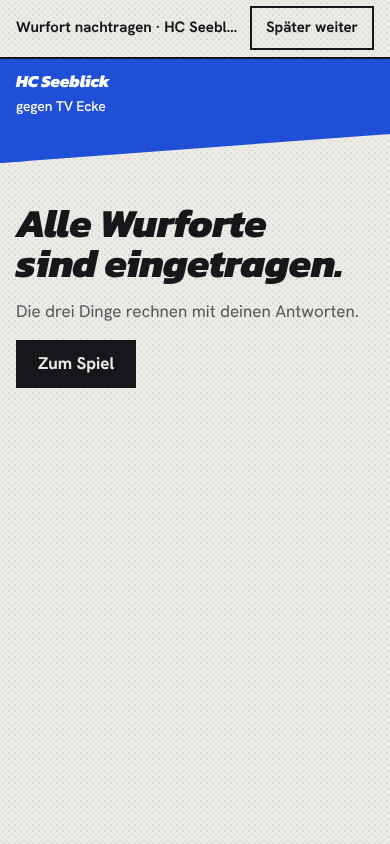
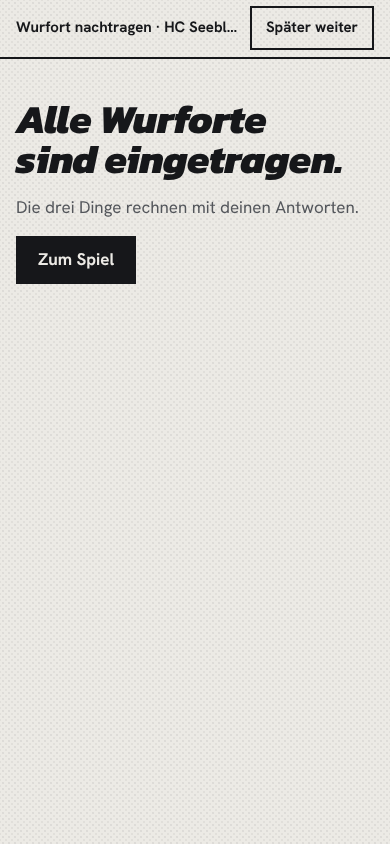
«Von wo?» on one phone screen, shorter text, goals on one point set apart, «Aussen links» everywhere
On a phone the step hides the strip, the question count and the player's bar, the replay key
sits beside «Von wo?», the two kinds and «Weiss nicht» share a row: video and court fit 390 x 844
and 360 x 740 without scrolling (Playwright measures it). One line of text, «Gelb ist unser
Vorschlag» only with a suggestion, the side note small under the court; the same when filling
in. Goals sharing one point (a zone without a tapped point) are set apart in a fixed ring, so
the bundle shows as many dots as the numeral says. «Links aussen» becomes «Aussen links» in
all texts (fr «Aile gauche»); the player box gets a role for its label.

Claude-Session: https://claude.ai/code/session_01H3gogAAXLogd3cuATJwVN8

diff --git a/apps/web/src/app/app/[orgId]/matches/[matchId]/check/check-view.tsx b/apps/web/src/app/app/[orgId]/matches/[matchId]/check/check-view.tsx
@@ -369,7 +369,10 @@ export function CheckView({ orgId, match }: { orgId: string; match: Match }) {
   }
   // keyboard and screen reader: the question «Von wo?» takes the focus when it appears
   useEffect(() => {
-    if (spotStep) document.getElementById("spot-question")?.focus({ preventScroll: true });
+    if (!spotStep) return;
+    // video and court on one screen: from the top, wherever the answer key was
+    window.scrollTo({ top: 0 });
+    document.getElementById("spot-question")?.focus({ preventScroll: true });
   }, [spotStep]);
   const replay = () => {
     if (current?.kind !== "goal") return;
@@ -436,7 +439,8 @@ export function CheckView({ orgId, match }: { orgId: string; match: Match }) {
           {t("later")}
         </Link>
       </div>
-      <div className="bleed-x">
+      {/* «Von wo?» on a phone: video and court on one screen, the strip gives way */}
+      <div className={cn("bleed-x", spotStep && "max-md:hidden")}>
         <Strip
           name={own}
           sub={`${ta("vsShort")} ${oppName} · ${left > 0 ? t("openCount", { n: left, minutes: leftMinutes }) : t("count", { n: total > 0 || wantMore ? total : moreGoals })}`}
@@ -531,7 +535,7 @@ export function CheckView({ orgId, match }: { orgId: string; match: Match }) {
         </div>
       ) : (
         // the court gets the whole width: the hall image as large as possible (E04)
-        <div className={cn("grid gap-5 py-6 md:gap-14 md:py-10", current.kind === "field" ? "md:grid-cols-1 md:gap-6" : "md:grid-cols-[minmax(0,1fr)_420px]")}>
+        <div className={cn("grid gap-5 py-6 md:gap-14 md:py-10", spotStep && "max-md:gap-2 max-md:py-2", current.kind === "field" ? "md:grid-cols-1 md:gap-6" : "md:grid-cols-[minmax(0,1fr)_420px]")}>
           <figure className="relative m-0 self-start bg-[#1d2125]">
             {current.kind === "field" && main && panoSize && corners ? (
               <FieldCheck key={current.videoId} src={`/v1/orgs/${orgId}/videos/${current.videoId}/panorama`} alt={t("fieldAlt")} size={panoSize} corners={corners} onChange={setMoved} />
@@ -561,7 +565,7 @@ export function CheckView({ orgId, match }: { orgId: string; match: Match }) {
               // the second half's throw-off: the player starts where the second half's file starts
               <VideoPlayer ref={player} key={`kickoff-${current.period}`} src={`${media}/hls/master.m3u8`} window={kickoffFrom(current.period)} />
             ) : current.kind === "goal" && media ? (
-              <VideoPlayer ref={player} key={current.c.id} src={`${media}/hls/master.m3u8`} window={goalWindow(current.c)} autoPlay />
+              <VideoPlayer ref={player} key={current.c.id} src={`${media}/hls/master.m3u8`} window={goalWindow(current.c)} autoPlay bare={spotStep != null} />
             ) : null}
             {current.kind === "person" && (
               <figcaption className="bg-[rgb(10_13_17/0.9)] px-3 py-2 font-mono text-[13px] font-semibold text-[#eef2f5]">
@@ -577,7 +581,7 @@ export function CheckView({ orgId, match }: { orgId: string; match: Match }) {
               </figcaption>
             )}
             {current.kind === "goal" && (
-              <figcaption className="flex flex-wrap items-center justify-between gap-x-3 gap-y-1 bg-[rgb(10_13_17/0.9)] px-3 py-1.5 text-[#eef2f5]">
+              <figcaption className={cn("flex flex-wrap items-center justify-between gap-x-3 gap-y-1 bg-[rgb(10_13_17/0.9)] px-3 py-1.5 text-[#eef2f5]", spotStep && "max-md:hidden")}>
                 <span className="font-mono text-[13px] font-semibold">{current.c.clock_s != null ? t("goalCaption", { clock: clock(current.c.clock_s), video: clock(current.c.goal_ms / 1000) }) : t("videoAt", { video: clock(current.c.goal_ms / 1000) })}</span>
                 {/* the coach sees the throw again while answering «Von wo?» (H7) */}
                 <button type="button" onClick={replay} className="min-h-11 cursor-pointer border-[1.5px] border-[#8d97a1] bg-transparent px-3 text-[15px] font-bold text-white" data-testid="check-replay">
@@ -587,7 +591,7 @@ export function CheckView({ orgId, match }: { orgId: string; match: Match }) {
             )}
           </figure>
           <div>
-            <p className="m-0 flex flex-wrap items-center justify-between gap-3 text-[15px] font-semibold text-ink-2">
+            <p className={cn("m-0 flex flex-wrap items-center justify-between gap-3 text-[15px] font-semibold text-ink-2", spotStep && "max-md:hidden")}>
               <span>{spotStep?.fromList ? `${ts("change")} · ${spotStep.goal}` : revisit != null ? t("changing", { answer: answered[revisit]?.label ?? "" }) : t("questionOf", { n: total - open.length + 1, total })}</span>
               {/* «Zurück» only where there is a question before this one (fourth real-video test H10) */}
               {!spotStep && answered.length > 0 && (revisit != null ? revisit > 0 : total - open.length > 0) && (
@@ -599,16 +603,26 @@ export function CheckView({ orgId, match }: { orgId: string; match: Match }) {
             {spotStep ? (
               // «Von wo?»: the goal is saved; one tap on the court saves the place and goes on (H7)
               <section aria-labelledby="spot-question" data-testid="spot-step">
-                {!spotStep.fromList && (
-                <p role="status" className="m-0 mt-2 text-[17px] font-semibold">
-                  <Check aria-hidden className="mr-1.5 inline size-5 align-[-3px] text-win" strokeWidth={3} />
-                  {ts("saved", { goal: spotStep.goal })}
+                <p role="status" className="m-0 text-[15px] font-semibold md:mt-2 md:text-[17px]">
+                  {spotStep.fromList ? (
+                    `${ts("change")} · ${spotStep.goal}`
+                  ) : (
+                    <>
+                      <Check aria-hidden className="mr-1.5 inline size-5 align-[-3px] text-win" strokeWidth={3} />
+                      {ts("saved", { goal: spotStep.goal })}
+                    </>
+                  )}
                 </p>
-                )}
-                <h1 id="spot-question" tabIndex={-1} className="mt-2 mb-2 text-[40px] leading-[.95] outline-none md:text-[58px]">
-                  {ts("question")}
-                </h1>
-                <p className="mt-3 max-w-[54ch] text-[17px] text-ink-2">
+                <div className="flex items-end justify-between gap-3">
+                  <h1 id="spot-question" tabIndex={-1} className="mt-1 mb-0 text-[32px] leading-[.95] outline-none md:mt-2 md:text-[58px]">
+                    {ts("question")}
+                  </h1>
+                  {/* on a phone the caption under the video gives way: the replay sits here */}
+                  <button type="button" onClick={replay} className="min-h-11 shrink-0 cursor-pointer border-2 border-ink bg-transparent px-3 text-[15px] font-bold text-ink md:hidden" data-testid="spot-replay">
+                    {ts("replay")}
+                  </button>
+                </div>
+                <p className="mt-1 mb-0 max-w-[54ch] text-[15px] text-ink-2 md:mt-3 md:text-[17px]">
                   {ts("why")} {spotStep.suggestion?.kind === "estimated" ? ts("suggestedWhy") : ""}
                 </p>
                 {failed && (
@@ -616,7 +630,7 @@ export function CheckView({ orgId, match }: { orgId: string; match: Match }) {
                     {t("saveFailed")} <span className="block text-[15px] font-normal text-ink-2">{failed}</span>
                   </p>
                 )}
-                <div className="mt-4">
+                <div className="mt-2 md:mt-4">
                   <ShotSpotPicker key={`${spotStep.eventId}-${spotStep.index}`} suggestion={spotStep.suggestion} onPick={(spot, point) => void pickSpot(spotStep, spot, point)} />
                 </div>
               </section>

diff --git a/apps/web/src/app/app/[orgId]/matches/[matchId]/check/spot-fill.tsx b/apps/web/src/app/app/[orgId]/matches/[matchId]/check/spot-fill.tsx
@@ -59,7 +59,9 @@ export function SpotFill({ orgId, match, goalId }: { orgId: string; match: Match
   const when = (g: Goal) => (g.minute != null ? `${clockOf(g.minute)} · ${tc("videoAt", { video: formatClock(g.t_ms ?? 0) })}` : tc("videoAt", { video: formatClock(g.t_ms ?? 0) }));
   // keyboard and screen reader: each goal's question takes the focus
   useEffect(() => {
-    if (at > 0) document.getElementById("spot-fill-question")?.focus({ preventScroll: true });
+    if (at === 0) return;
+    window.scrollTo({ top: 0 });
+    document.getElementById("spot-fill-question")?.focus({ preventScroll: true });
   }, [at]);
   const media = main ? `/v1/orgs/${orgId}/videos/${main.id}/media/hls/master.m3u8` : null;
 
@@ -71,7 +73,8 @@ export function SpotFill({ orgId, match, goalId }: { orgId: string; match: Match
           {tc("later")}
         </Link>
       </div>
-      <div className="bleed-x">
+      {/* on a phone video and court share one screen: the strip gives way */}
+      <div className="bleed-x max-md:hidden">
         <Strip name={own} sub={`${ta("vsShort")} ${oppName}${goal ? ` · ${t("fillCount", { n: at + 1, total })}` : ""}`} own={match.score_own} opp={match.score_opponent} />
       </div>
       {!list ? (
@@ -85,10 +88,10 @@ export function SpotFill({ orgId, match, goalId }: { orgId: string; match: Match
           </Link>
         </div>
       ) : (
-        <div className="grid gap-5 py-6 md:grid-cols-[minmax(0,1fr)_420px] md:gap-14 md:py-10">
+        <div className="grid gap-2 py-2 md:grid-cols-[minmax(0,1fr)_420px] md:gap-14 md:py-10">
           <figure className="relative m-0 self-start bg-court-bar">
-            {media && goal.t_ms != null && <VideoPlayer ref={player} key={goal.event_id} src={media} window={goalWindow({ t_ms: goal.t_ms })} autoPlay />}
-            <figcaption className="flex flex-wrap items-center justify-between gap-x-3 gap-y-1 bg-court-bar px-3 py-1.5 text-court-text">
+            {media && goal.t_ms != null && <VideoPlayer ref={player} key={goal.event_id} src={media} window={goalWindow({ t_ms: goal.t_ms })} autoPlay bare />}
+            <figcaption className="flex flex-wrap max-md:hidden items-center justify-between gap-x-3 gap-y-1 bg-court-bar px-3 py-1.5 text-court-text">
               <span className="font-mono text-[13px] font-semibold">{when(goal)}</span>
               <button
                 type="button"
@@ -104,18 +107,34 @@ export function SpotFill({ orgId, match, goalId }: { orgId: string; match: Match
             </figcaption>
           </figure>
           <section aria-labelledby="spot-fill-question" data-testid="spot-step">
-            <p className="m-0 text-[15px] font-semibold text-ink-2">{t("fillCount", { n: at + 1, total })}</p>
-            <p className="m-0 mt-2 text-[17px] font-semibold">{who(goal)}</p>
-            <h1 id="spot-fill-question" tabIndex={-1} className="mt-1 mb-2 text-[40px] leading-[.95] outline-none md:text-[58px]">
-              {t("question")}
-            </h1>
-            <p className="mt-3 max-w-[54ch] text-[17px] text-ink-2">{t("why")}</p>
+            <p className="m-0 text-[15px] font-semibold md:text-[17px]">
+              <span className="text-ink-2">{t("fillCount", { n: at + 1, total })}</span> · {who(goal)} <span className="font-mono text-[13px] text-ink-2 md:hidden">{when(goal)}</span>
+            </p>
+            <div className="flex items-end justify-between gap-3">
+              <h1 id="spot-fill-question" tabIndex={-1} className="mt-1 mb-0 text-[32px] leading-[.95] outline-none md:mt-2 md:text-[58px]">
+                {t("question")}
+              </h1>
+              <button
+                type="button"
+                onClick={() => {
+                  player.current?.seek(goalWindow({ t_ms: goal.t_ms ?? 0 }).start_ms);
+                  player.current?.play();
+                }}
+                className="min-h-11 shrink-0 cursor-pointer border-2 border-ink bg-transparent px-3 text-[15px] font-bold text-ink md:hidden"
+                data-testid="spot-replay"
+              >
+                {t("replay")}
+              </button>
+            </div>
+            <p className="mt-1 mb-0 max-w-[54ch] text-[15px] text-ink-2 md:mt-3 md:text-[17px]">
+              {t("why")} {goal.zone_source === "estimated" ? t("suggestedWhy") : ""}
+            </p>
             {failed && (
               <p role="alert" className="mt-4 max-w-[54ch] border-l-4 border-loss pl-3 text-[17px] font-semibold" data-testid="check-failed">
                 {tc("saveFailed")} <span className="block text-[15px] font-normal text-ink-2">{failed}</span>
               </p>
             )}
-            <div className="mt-4">
+            <div className="mt-2 md:mt-4">
               <ShotSpotPicker
                 key={goal.event_id}
                 disabled={busy}

diff --git a/apps/web/src/components/anlauf/shot-spot-picker.tsx b/apps/web/src/components/anlauf/shot-spot-picker.tsx
@@ -107,7 +107,10 @@ export function ShotSpotPicker({
           );
         })}
       </svg>
-      <div className="mt-2.5 grid grid-cols-2 gap-2.5">
+      {/* which way round, small under the court: read once, not before every tap */}
+      <p className="m-0 mt-1 text-[14px] leading-snug text-ink-2">{t("sideNote")}</p>
+      {/* the two kinds and «Weiss nicht» in one row: the whole step fits one phone screen */}
+      <div className="mt-2 grid grid-cols-[minmax(0,1fr)_minmax(0,1fr)_auto] items-stretch gap-2">
         {(["m7", "gs"] as const).map((z) => {
           const word = mark(z);
           return (
@@ -117,17 +120,17 @@ export function ShotSpotPicker({
               disabled={disabled}
               onClick={() => onPick(z)}
               data-testid={`spot-${z}`}
-              className={cn("flex min-h-14 cursor-pointer flex-col items-start justify-center border-2 border-ink px-4 text-left text-[17px] font-semibold text-ink md:min-h-16", word ? "bg-attn" : "bg-transparent")}
+              className={cn("flex min-h-12 cursor-pointer flex-col items-start justify-center border-2 border-ink px-2.5 text-left text-[15px] font-semibold text-ink sm:px-4 sm:text-[17px] md:min-h-14", word ? "bg-attn" : "bg-transparent")}
             >
               {t(`zone.${z}` as "zone.m7")}
-              {word && <span className="text-[15px] font-semibold italic">{word}</span>}
+              {word && <span className="text-[14px] font-semibold italic">{word}</span>}
             </button>
           );
         })}
+        <button type="button" disabled={disabled} onClick={() => onPick("unknown")} className="min-h-12 cursor-pointer border-0 bg-transparent px-1 text-[15px] font-bold whitespace-nowrap text-ink underline underline-offset-4 sm:text-[17px]" data-testid="spot-unknown">
+          {t("unknown")}
+        </button>
       </div>
-      <button type="button" disabled={disabled} onClick={() => onPick("unknown")} className="mt-1 min-h-12 cursor-pointer border-0 bg-transparent p-0 text-[17px] font-bold text-ink underline underline-offset-4" data-testid="spot-unknown">
-        {t("unknown")}
-      </button>
     </div>
   );
 }

diff --git a/apps/web/src/lib/graphics.ts b/apps/web/src/lib/graphics.ts
@@ -21,6 +21,38 @@ export type SceneCamera = Schemas["SceneCameraOut"];
  * the goal list (`spotless`), not in bundles and Minifelder (real-video test E01).
  */
 export function goalRuns(g: MatchGraphics, team?: "own" | "opp"): (GoalRun & { eventId: string })[] {
+  return spreadSpots(goalRunsAsGiven(g, team));
+}
+
+const SPREAD_M = 1.1; // distance between goals that share one point, in metres of the half court
+
+/**
+ * Goals on the same point (several drawn at their zone's point, or tapped on the same spot) are
+ * set apart in a small ring, fixed by their order (event id), so three goals read as three dots
+ * and the numeral above matches the picture. Only goals without a run move: a run ends where it
+ * ends.
+ */
+export function spreadSpots<T extends GoalRun & { eventId: string }>(runs: T[]): T[] {
+  const groups = new Map<string, T[]>();
+  for (const r of runs) {
+    if (r.run.length > 1) continue;
+    const key = `${Math.round(r.shot[0] * 4)}:${Math.round(r.shot[1] * 4)}`;
+    groups.set(key, [...(groups.get(key) ?? []), r]);
+  }
+  const moved = new Map<T, Pt>();
+  for (const list of groups.values()) {
+    if (list.length < 2) continue;
+    const sorted = [...list].sort((a, b) => a.eventId.localeCompare(b.eventId));
+    sorted.forEach((r, i) => {
+      const angle = -Math.PI / 2 + (2 * Math.PI * i) / sorted.length;
+      const radius = SPREAD_M * (sorted.length > 6 ? 1.6 : 1);
+      moved.set(r, [Math.min(20, Math.max(0, r.shot[0] + radius * Math.cos(angle))), Math.max(0.3, r.shot[1] + radius * Math.sin(angle))]);
+    });
+  }
+  return runs.map((r) => (moved.has(r) ? { ...r, shot: moved.get(r)! } : r));
+}
+
+function goalRunsAsGiven(g: MatchGraphics, team?: "own" | "opp"): (GoalRun & { eventId: string })[] {
   return g.goals
     .filter((x) => (x.shot != null || (x.zone != null && ZONE_AT[x.zone] != null)) && (!team || x.team === team))
     .map((x) => ({

diff --git a/apps/web/src/components/video/player.tsx b/apps/web/src/components/video/player.tsx
@@ -53,12 +53,14 @@ interface Props {
   autoPlay?: boolean;
   /** how times read in the controls, e.g. the match clock ("1. HZ 12:55"); video time by default */
   clock?: (ms: number) => string;
+  /** on a phone without the control bar under the picture (Prüfen «Von wo?»: one screen); from tablets up the bar floats over it */
+  bare?: boolean;
 }
 
 const SPEEDS = [0.25, 0.5, 1, 1.5, 2];
 
 export const VideoPlayer = forwardRef<PlayerHandle, Props>(function VideoPlayer(
-  { src, poster, thumbsVtt, fps, markers = [], annotations = [], window: win, onWindowEnd, onTime, onKey, overlay, autoPlay, clock },
+  { src, poster, thumbsVtt, fps, markers = [], annotations = [], window: win, onWindowEnd, onTime, onKey, overlay, autoPlay, clock, bare },
   ref,
 ) {
   const t = useTranslations("player");
@@ -282,6 +284,7 @@ export const VideoPlayer = forwardRef<PlayerHandle, Props>(function VideoPlayer(
       tabIndex={0}
       onKeyDown={onKeyDown}
       className="group relative overflow-hidden bg-black outline-none focus-visible:ring-2 focus-visible:ring-accent"
+      role="group"
       aria-label={t("shortcutsList")}
       data-testid="player"
     >
@@ -323,6 +326,7 @@ export const VideoPlayer = forwardRef<PlayerHandle, Props>(function VideoPlayer(
         className={cn(
           "space-y-0.5 bg-black px-2 pt-1 pb-1 text-white transition-opacity duration-200 sm:absolute sm:inset-x-0 sm:bottom-0 sm:space-y-1 sm:bg-transparent sm:bg-gradient-to-t sm:from-black/85 sm:via-black/45 sm:to-transparent sm:px-3 sm:pt-10 sm:pb-2",
           playing && !hover && "sm:opacity-0 sm:group-hover:opacity-100 sm:group-focus-within:opacity-100",
+          bare && "max-sm:hidden",
         )}
       >
         <div

diff --git a/apps/web/e2e/shot-zone.spec.ts b/apps/web/e2e/shot-zone.spec.ts
@@ -52,8 +52,20 @@ test("a confirmed goal asks «Von wo?»; three from one place make a thing; the 
     const step = page.getByTestId("spot-step");
     await expect(step).toContainText("Tor HC Wurfort ist gespeichert.");
     await expect(step.getByRole("heading", { name: "Von wo?" })).toBeVisible();
-    await expect(page.getByTestId("check-replay")).toBeVisible();
+    // on a phone «Nochmal ansehen» sits beside «Von wo?»
+    await expect(page.getByTestId("spot-replay")).toBeVisible();
     if (n === 0) {
+      // one screen on a phone: the bottom of the video and «Weiss nicht» are in view together, no scrolling
+      for (const size of [{ width: 390, height: 844 }, { width: 360, height: 740 }]) {
+        await page.setViewportSize(size);
+        await expect(page.getByTestId("spot-unknown")).toBeVisible();
+        await expect.poll(() => page.evaluate(() => window.scrollY)).toBe(0);
+        const video = (await page.getByTestId("video").boundingBox())!;
+        const unknown = (await page.getByTestId("spot-unknown").boundingBox())!;
+        expect(video.y).toBeGreaterThanOrEqual(0);
+        expect(video.y + video.height).toBeLessThanOrEqual(size.height);
+        expect(unknown.y + unknown.height).toBeLessThanOrEqual(size.height);
+      }
       await expectAccessible(page);
       // every place is a target of at least 44 px for a thumb
       for (const z of ["la", "kr", "ra", "rl", "rm", "rr"]) {

diff --git a/apps/web/src/lib/scene-words.ts b/apps/web/src/lib/scene-words.ts
@@ -8,8 +8,8 @@ const RULES: { chip: string; words: RegExp }[] = [
   { chip: "saves", words: /\b(parade\w*|gehalten\w*|arr[eê]ts?|saves?)\b/ },
   { chip: "turnovers", words: /\b(ballverlust\w*|fehlp[aä]ss\w*|pertes? de balle|turnovers?)\b/ },
   { chip: "scored", words: /\b(eigene tore|unsere tore|tore|tor|buts?|goals?)\b/ },
-  { chip: "wing_right", words: /\b(rechts ?aussen|rechtsaussen|rechter? fl[uü]gel|ailier droit|aile droite|right wing)\b/ },
-  { chip: "wing_left", words: /\b(links ?aussen|linksaussen|linker? fl[uü]gel|ailier gauche|aile gauche|left wing)\b/ },
+  { chip: "wing_right", words: /\b(rechts ?aussen|aussen ?rechts|rechtsaussen|rechter? fl[uü]gel|ailier droit|aile droite|right wing)\b/ },
+  { chip: "wing_left", words: /\b(links ?aussen|aussen ?links|linksaussen|linker? fl[uü]gel|ailier gauche|aile gauche|left wing)\b/ },
   { chip: "back_left", words: /\b(r[uü]ckraum links|arri[eè]re gauche|left back)\b/ },
   { chip: "back_centre", words: /\b(r[uü]ckraum mitte|demi-centre|centre back)\b/ },
   { chip: "back_right", words: /\b(r[uü]ckraum rechts|arri[eè]re droit|right back)\b/ },

diff --git a/apps/web/e2e/data.spec.ts b/apps/web/e2e/data.spec.ts
@@ -90,7 +90,7 @@ test("coach plans a session, opens the matrix and the assistant", async ({ page,
   // over, its words become chips, nothing ends in «not set up»
   await page.goto(`${page.url().replace(/\/matrix\?pivot=1$/, "")}/assistant?q=${encodeURIComponent("Wie viele Gegentore über rechts aussen in den letzten drei Spielen?")}`);
   await page.waitForURL(/\/scenes\?q=/);
-  for (const chip of ["Gegentor", "rechts aussen", "letzte 3 mit Video"]) await expect(page.getByRole("button", { name: chip, pressed: true })).toBeVisible();
+  for (const chip of ["Gegentor", "aussen rechts", "letzte 3 mit Video"]) await expect(page.getByRole("button", { name: chip, pressed: true })).toBeVisible();
   await expect(page.getByText("Der Assistent ist in dieser Installation nicht eingerichtet.")).toHaveCount(0);
   // the button «Suchen» in the frame leads there too, with the field focused
   await page.getByTestId("search-open").first().click();

diff --git a/apps/web/src/lib/shot-spot.test.ts b/apps/web/src/lib/shot-spot.test.ts
@@ -66,7 +66,11 @@ describe("places for the three things", () => {
     const g = graphics([goal("a", "opp", "rl"), goal("b", "opp", "rl"), goal("c", "opp", "rl"), goal("d", "own", null)]);
     const runs = goalRuns(g);
     expect(runs).toHaveLength(3);
-    expect(runs[0]!.shot).toEqual(ZONE_AT.rl);
+    // three goals at the zone's point are three dots, set apart, the same each time
+    const spots = runs.map((r) => r.shot.join(","));
+    expect(new Set(spots).size).toBe(3);
+    expect(goalRuns(g).map((r) => r.shot)).toEqual(runs.map((r) => r.shot));
+    for (const r of runs) expect(Math.hypot(r.shot[0] - ZONE_AT.rl![0], r.shot[1] - ZONE_AT.rl![1])).toBeCloseTo(1.1, 5);
     const things = threeThings(runs);
     expect(things.map((x) => [x.key, x.zone, x.value])).toEqual([["conceded_zone", "rl", 3]]);
   });
